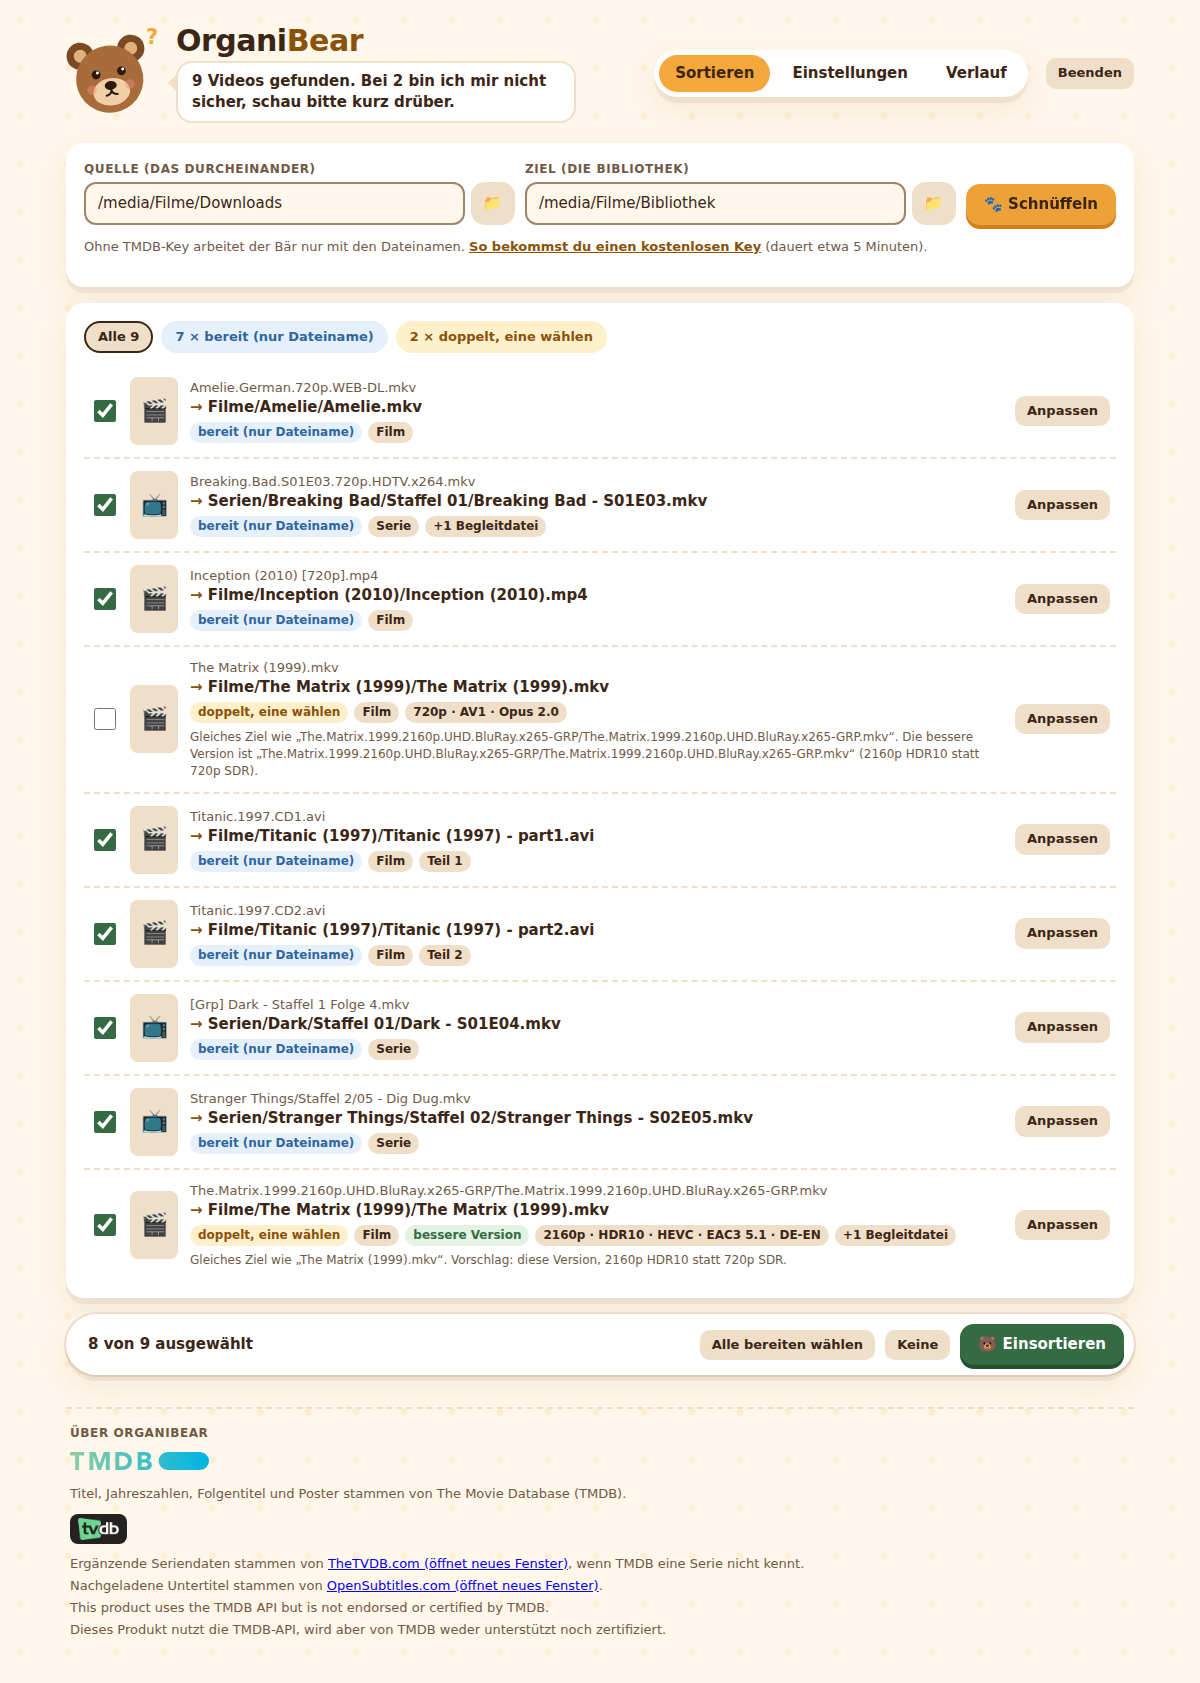
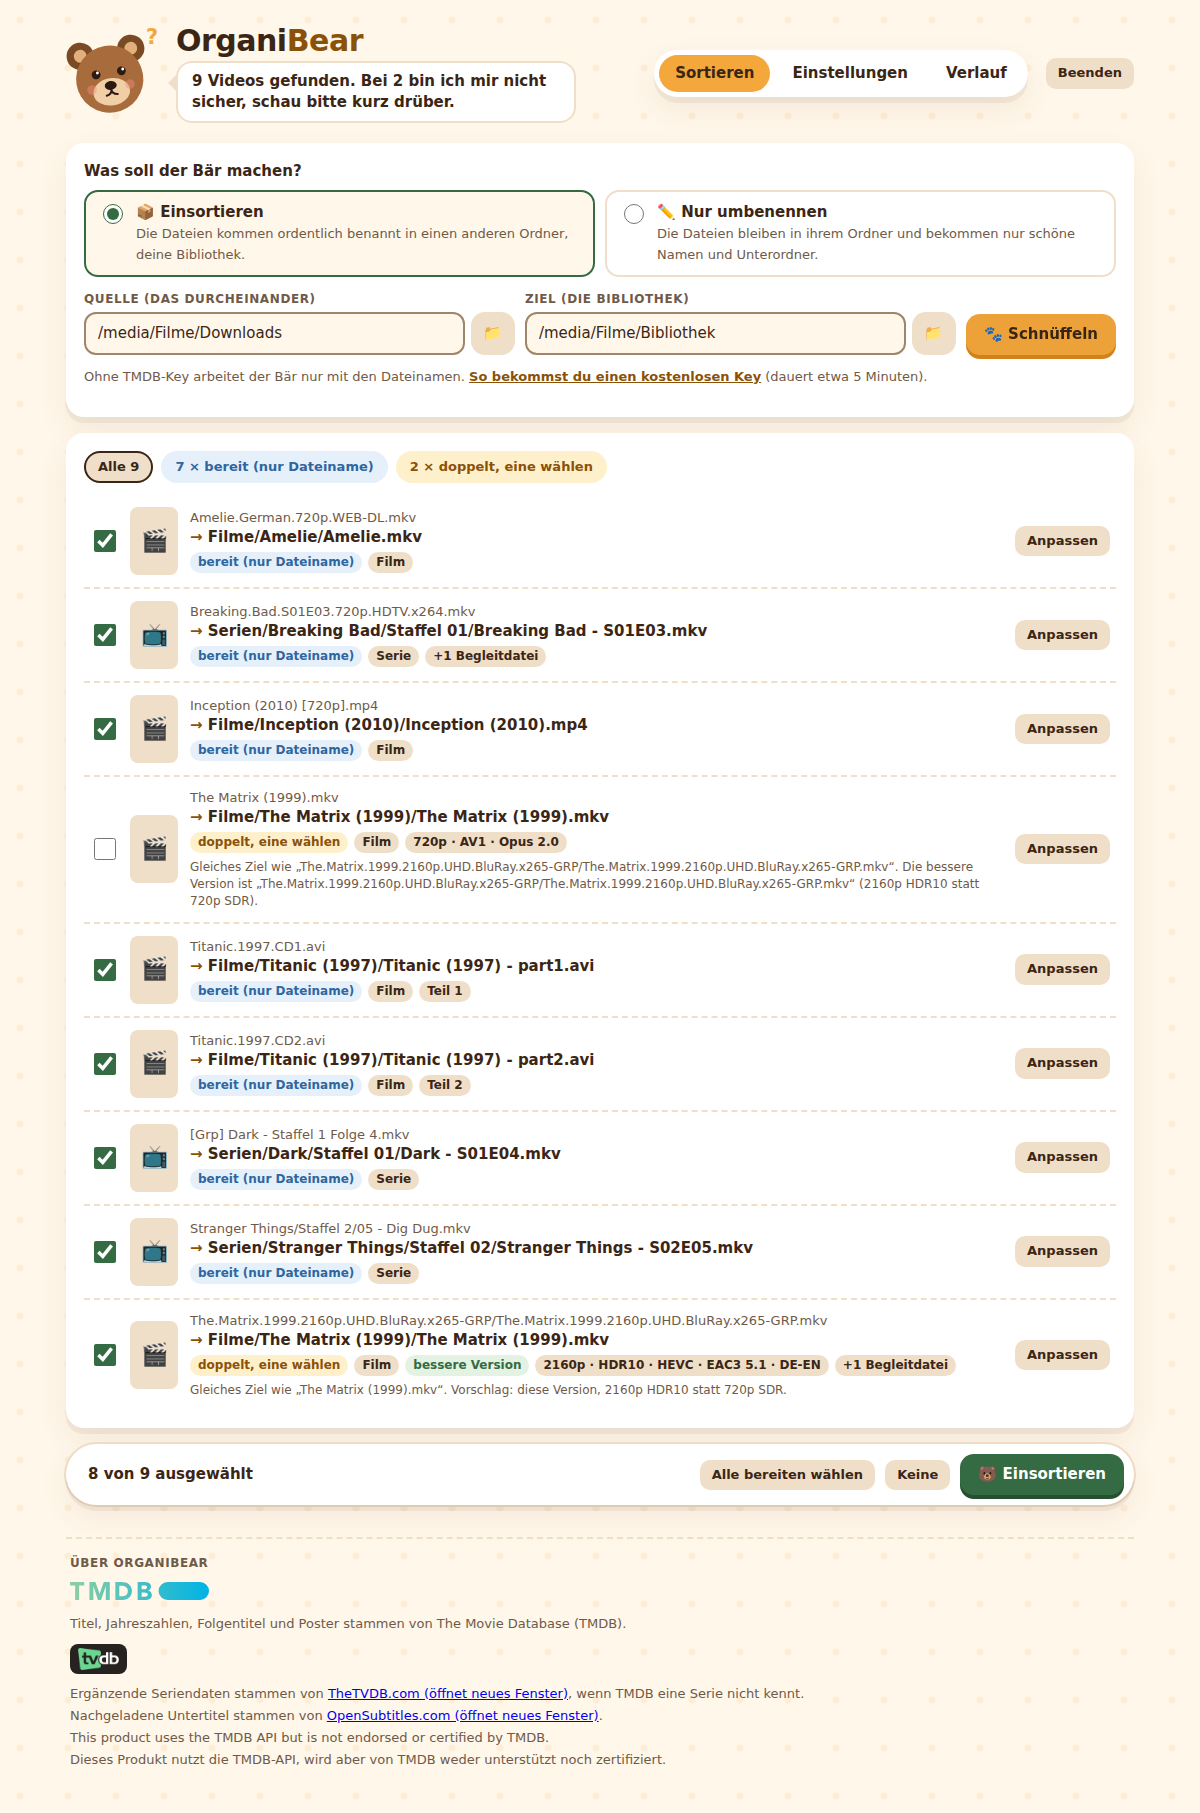
Nur umbenennen: Dateien bleiben im Quellordner
Neue Auswahl „Einsortieren“ oder „Nur umbenennen“. Beim Umbenennen ist die
Quelle zugleich das Ziel: Unterordner nach Vorlage entstehen im Quellordner,
Kopieren wird zu Umbenennen, leer gewordene Release-Ordner verschwinden.
Das gemerkte Ziel bleibt für später erhalten. Reine Änderungen der Groß- und
Kleinschreibung gelten nicht mehr als Konflikt.

Closes #25

Claude-Session: https://claude.ai/code/session_01821xLD15Pix4i9MNryRkKJ

Changed region(s): [[0.0308, 0.0, 0.9558, 0.9887], [0.555, 0.0309, 0.9558, 0.0618]]

diff --git a/web/index.html b/web/index.html
@@ -224,6 +224,13 @@ a.linkbtn {
 .guide-msg.bad { color: var(--berry); }
 .guide-msg.good { color: var(--go); }
 @media (max-width: 480px) { .fill { grid-template-columns: 1fr auto; } .fill dt { grid-column: 1 / -1; } }
+/* Einsortieren oder nur umbenennen */
+.mode { border: 0; padding: 0; margin: 0 0 14px; display: flex; gap: 10px; flex-wrap: wrap; }
+.mode legend { font-weight: 800; padding: 0; margin-bottom: 8px; }
+.mode-opt { flex: 1 1 260px; display: flex; gap: 10px; align-items: start; padding: 10px 12px; border: 2px solid var(--line); border-radius: 14px; cursor: pointer; }
+.mode-opt input { width: 20px; height: 20px; margin-top: 2px; accent-color: var(--go); flex: none; }
+.mode-opt:has(input:checked) { border-color: var(--go); background: var(--bg); }
+.mode-opt .hint { font-weight: 400; }
 [hidden] { display: none !important; }
 /* Drag & Drop im Programmfenster: das Feld unter dem Ordner leuchtet auf. */
 .pathpick.wails-drop-target-active input { border-color: var(--go); box-shadow: 0 0 0 3px var(--go); background: var(--card); }
@@ -304,17 +311,25 @@ a.linkbtn {
   <section id="tab-sort" aria-labelledby="h-sort">
     <h2 id="h-sort" class="sr-only" tabindex="-1">Sortieren</h2>
     <div class="card">
+      <fieldset class="mode">
+        <legend>Was soll der Bär machen?</legend>
+        <label class="mode-opt"><input type="radio" name="mode" value="sort" checked>
+          <span><strong><span aria-hidden="true">📦 </span>Einsortieren</strong><br><span class="hint">Die Dateien kommen ordentlich benannt in einen anderen Ordner, deine Bibliothek.</span></span></label>
+        <label class="mode-opt"><input type="radio" name="mode" value="inplace">
+          <span><strong><span aria-hidden="true">✏ </span>Nur umbenennen</strong><br><span class="hint">Die Dateien bleiben in ihrem Ordner und bekommen nur schöne Namen und Unterordner.</span></span></label>
+      </fieldset>
       <div class="row">
         <div class="field">
           <label for="src">Quelle (das Durcheinander)</label>
           <div class="pathpick"><input id="src" placeholder="z. B. D:\Downloads" autocomplete="off"><button type="button" class="btn icon-btn" data-pick="src" aria-label="Quellordner wählen" title="Quellordner wählen"><span aria-hidden="true">📁</span></button></div>
         </div>
-        <div class="field">
+        <div class="field" id="dst-field">
           <label for="dst">Ziel (die Bibliothek)</label>
           <div class="pathpick"><input id="dst" placeholder="z. B. E:\Medien" autocomplete="off"><button type="button" class="btn icon-btn" data-pick="dst" aria-label="Zielordner wählen" title="Zielordner wählen"><span aria-hidden="true">📁</span></button></div>
         </div>
         <button type="button" class="btn primary" id="scan"><span aria-hidden="true">🐾 </span><span class="lbl">Schnüffeln</span></button>
       </div>
+      <p class="hint" id="inplace-hint" hidden>Alles bleibt im Quellordner. Darin legt der Bär die Ordner aus deinen Namensvorlagen an, zum Beispiel <code>Filme/Matrix (1999)/</code>. Leere alte Ordner räumt er weg. Mit „Rückgängig“ im Verlauf ist alles wieder wie vorher.</p>
       <p class="hint" id="offline-hint" hidden>Ohne TMDB-Key arbeitet der Bär nur mit den Dateinamen. <button type="button" class="linklike" data-guide>So bekommst du einen kostenlosen Key</button> (dauert etwa 5 Minuten).</p>
     </div>
 
@@ -328,7 +343,7 @@ a.linkbtn {
       <span class="grow" id="selinfo" aria-live="polite"></span>
       <button type="button" class="btn small" id="selready">Alle bereiten wählen</button>
       <button type="button" class="btn small" id="selnone">Keine</button>
-      <button type="button" class="btn go" id="apply"><span aria-hidden="true">🐻 </span>Einsortieren</button>
+      <button type="button" class="btn go" id="apply"><span aria-hidden="true">🐻 </span><span class="lbl">Einsortieren</span></button>
     </div>
     <div class="card empty" id="empty">
       <div class="big" aria-hidden="true">🍯</div>
@@ -622,6 +637,7 @@ async function loadConfig() {
   const c = state.cfg;
   $("#src").value = c.source_dir || "";
   $("#dst").value = c.target_dir || "";
+  setMode(!!c.in_place);
   $("#key").value = c.tmdb_api_key || "";
   $("#lang").value = c.language || "de-DE";
   $("#tmovie").value = c.movie_template;
@@ -790,6 +806,21 @@ $("#save").onclick = async () => {
   }
 };
 
+// Einsortieren oder nur umbenennen
+const inPlace = () => $('input[name="mode"][value="inplace"]').checked;
+function setMode(on) {
+  $(`input[name="mode"][value="${on ? "inplace" : "sort"}"]`).checked = true;
+  $("#dst-field").hidden = on;
+  $("#inplace-hint").hidden = !on;
+  $(".lbl", $("#apply")).textContent = on ? "Umbenennen" : "Einsortieren";
+}
+$$('input[name="mode"]').forEach(r => r.addEventListener("change", () => {
+  setMode(inPlace());
+  bear("idle", inPlace() ? "Gut, ich lasse alles in seinem Ordner und gebe nur schöne Namen." : "Gut, ich räume alles in deine Bibliothek.", 3000);
+  // Die alte Vorschau passt nicht mehr, also gleich neu schnüffeln.
+  if (state.items.length && $("#src").value.trim()) $("#scan").click();
+}));
+
 // Sortieren
 $("#scan").onclick = async () => {
   if (state.busy) return;
@@ -799,7 +830,8 @@ $("#scan").onclick = async () => {
   $(".lbl", btn).textContent = "Schnüffelt …";
   bear("sniff", "Schnüffel, schnüffel … ich schaue mir alles an.");
   try {
-    const r = await api("POST", "/api/scan", { source_dir: $("#src").value.trim(), target_dir: $("#dst").value.trim() });
+    const r = await api("POST", "/api/scan", { source_dir: $("#src").value.trim(), target_dir: $("#dst").value.trim(), in_place: inPlace() });
+    state.cfg.in_place = inPlace();
     state.filter = null;
     setItems(r, true);
     const n = state.items.length;
@@ -1079,7 +1111,8 @@ $("#apply").onclick = async () => {
   const chosen = state.items.filter(i => state.sel.has(i.id));
   if (!chosen.length) return;
   const copies = chosen.filter(i => i.action === "copy").length;
-  const msg = `${chosen.length} Videos (plus Begleitdateien) werden ${copies === chosen.length ? "kopiert" : copies ? "verschoben bzw. kopiert" : "verschoben"}.\nÜber den Verlauf lässt sich das rückgängig machen.\n\nLos geht's?`;
+  const how = inPlace() ? "im Quellordner umbenannt" : copies === chosen.length ? "kopiert" : copies ? "verschoben bzw. kopiert" : "verschoben";
+  const msg = `${chosen.length} Videos (plus Begleitdateien) werden ${how}.\nÜber den Verlauf lässt sich das rückgängig machen.\n\nLos geht's?`;
   if (!confirm(msg)) return;
   bear("sniff", "Ich trage alles an seinen Platz …");
   state.applying = true;
@@ -1093,9 +1126,9 @@ $("#apply").onclick = async () => {
     const warns = r.warnings?.length ? ` ${r.warnings.length} Zusatzdatei(en) fehlen: ${r.warnings.slice(0, 3).join("; ")}.` : "";
     const servers = r.refreshed?.length ? " " + r.refreshed.join(". ") + "." : "";
     if (errs) bear("confused", `Fertig, aber ${errs} Datei(en) hatten Probleme. Details stehen beim jeweiligen Eintrag.${warns}${servers}`, 6000);
-    else if (warns) bear("confused", `Fertig! ${r.done} Videos sind einsortiert.${warns}${servers}`, 6000);
-    else if (state.items.length) bear("happy", `Fertig! ${r.done} Videos sind einsortiert und aus der Liste verschwunden. Übrig ist, was noch geprüft werden will.${servers}`, 3500);
-    else bear("happy", `Fertig! Alle ${r.done} Videos sind ordentlich einsortiert.${servers}`, 3000);
+    else if (warns) bear("confused", `Fertig! ${r.done} Videos sind ${inPlace() ? "umbenannt" : "einsortiert"}.${warns}${servers}`, 6000);
+    else if (state.items.length) bear("happy", `Fertig! ${r.done} Videos sind ${inPlace() ? "umbenannt" : "einsortiert"} und aus der Liste verschwunden. Übrig ist, was noch geprüft werden will.${servers}`, 3500);
+    else bear("happy", `Fertig! Alle ${r.done} Videos sind ordentlich ${inPlace() ? "umbenannt" : "einsortiert"}.${servers}`, 3000);
   } catch (e) {
     bear("confused", e.message, 4000);
   } finally {

diff --git a/organize.go b/organize.go
@@ -74,10 +74,10 @@ func Scan(ctx context.Context, cfg Config, db *TMDB) ([]*Item, error) {
 	if st, err := os.Stat(src); err != nil || !st.IsDir() {
 		return nil, fmt.Errorf("Quellordner %s nicht gefunden", src)
 	}
-	if cfg.TargetDir == "" {
+	if cfg.Target() == "" {
 		return nil, errors.New("bitte einen Zielordner angeben")
 	}
-	dst, _ := filepath.Abs(cfg.TargetDir)
+	dst, _ := filepath.Abs(cfg.Target())
 
 	videos := map[string][]scanned{}     // Ordner -> Videos
 	companions := map[string][]scanned{} // Ordner -> Begleitdateien
@@ -122,7 +122,7 @@ func Scan(ctx context.Context, cfg Config, db *TMDB) ([]*Item, error) {
 		sort.Slice(vs, func(i, j int) bool { return vs[i].path < vs[j].path })
 		for _, v := range vs {
 			rel, _ := filepath.Rel(src, v.path)
-			it := &Item{ID: len(items) + 1, Source: v.path, RelSource: rel, Action: v.rule.Action}
+			it := &Item{ID: len(items) + 1, Source: v.path, RelSource: rel, Action: inPlaceAction(cfg, v.rule.Action)}
 			it.Parsed = ParsePath(rel)
 			base := strings.ToLower(strings.TrimSuffix(filepath.Base(v.path), filepath.Ext(v.path)))
 			var cands []scanned
@@ -142,7 +142,7 @@ func Scan(ctx context.Context, cfg Config, db *TMDB) ([]*Item, error) {
 					continue
 				}
 				used[c.path] = true
-				it.Companions = append(it.Companions, FileOp{Source: c.path, Action: c.rule.Action})
+				it.Companions = append(it.Companions, FileOp{Source: c.path, Action: inPlaceAction(cfg, c.rule.Action)})
 			}
 			items = append(items, it)
 		}
@@ -357,6 +357,15 @@ func applyTVDB(ctx context.Context, db *TMDB, it *Item, c Candidate) {
 
 // companionSuffix liefert den Teil des Begleitdatei-Namens, der an den neuen
 // Videonamen angehängt wird, z. B. ".de.forced.srt".
+// inPlaceAction: Beim Umbenennen im selben Ordner wird nicht kopiert, sonst
+// lägen danach alle Dateien doppelt da.
+func inPlaceAction(cfg Config, a string) string {
+	if cfg.InPlace && a == ActionCopy {
+		return ActionMove
+	}
+	return a
+}
+
 func companionSuffix(video, companion string) string {
 	vb := strings.TrimSuffix(filepath.Base(video), filepath.Ext(video))
 	cn := filepath.Base(companion)
@@ -368,7 +377,7 @@ func companionSuffix(video, companion string) string {
 
 // PlanTargets berechnet Zielpfade und Status für alle offenen Einträge.
 func PlanTargets(cfg Config, items []*Item) {
-	dst, _ := filepath.Abs(cfg.TargetDir)
+	dst, _ := filepath.Abs(cfg.Target())
 	groups := map[string][]*Item{}
 	for _, it := range items {
 		if it.Status == StatusDone {
@@ -398,12 +407,12 @@ func PlanTargets(cfg Config, items []*Item) {
 			it.Status, it.Message = StatusError, "Ziel liegt außerhalb des Zielordners"
 		case it.Target == it.Source:
 			it.Status, it.Message = StatusSame, "Liegt schon richtig"
-		case exists(it.Target):
+		case exists(it.Target) && !caseOnly(it.Source, it.Target):
 			it.Status, it.Message = StatusConflict, "Ziel existiert bereits. Über „Anpassen“ kannst du einen anderen Namen vergeben."
 		}
 		if it.Status == "" {
 			for _, c := range it.Companions {
-				if c.Target != c.Source && exists(c.Target) {
+				if c.Target != c.Source && exists(c.Target) && !caseOnly(c.Source, c.Target) {
 					it.Status, it.Message = StatusConflict, "Begleitdatei existiert bereits: "+filepath.Base(c.Target)
 				}
 			}
@@ -483,7 +492,7 @@ type ExtrasFunc func(it *Item) (created, warns []string)
 // Apply führt die ausgewählten Einträge aus und schreibt ein Journal.
 // extras darf nil sein.
 func Apply(cfg Config, items []*Item, ids map[int]bool, journalDir string, extras ExtrasFunc) (*Journal, string, error) {
-	dst, _ := filepath.Abs(cfg.TargetDir)
+	dst, _ := filepath.Abs(cfg.Target())
 	src, _ := filepath.Abs(cfg.SourceDir)
 	j := &Journal{Created: time.Now(), SourceDir: src, TargetDir: dst}
 	taken := map[string]bool{} // von doppelten Einträgen nur den ersten gewählten ausführen
@@ -511,6 +520,10 @@ func Apply(cfg Config, items []*Item, ids map[int]bool, journalDir string, extra
 				break
 			}
 			j.Ops = append(j.Ops, op)
+			if cfg.InPlace && op.Action == ActionMove {
+				// Beim Umbenennen im selben Ordner keine leeren Release-Ordner zurücklassen.
+				pruneEmpty(src, filepath.Dir(op.Source))
+			}
 		}
 		if it.Status == StatusDone && extras != nil {
 			created, warns := extras(it)

diff --git a/organize_test.go b/organize_test.go
@@ -354,3 +354,70 @@ func TestAbsoluteEpisodeMath(t *testing.T) {
 		}
 	}
 }
+
+func TestInPlace(t *testing.T) {
+	tmp := t.TempDir()
+	src := filepath.Join(tmp, "filme")
+	touch(t, src,
+		"The.Matrix.1999.1080p.BluRay.x264-GRP/The.Matrix.1999.1080p.BluRay.x264-GRP.mkv",
+		"The.Matrix.1999.1080p.BluRay.x264-GRP/The.Matrix.1999.1080p.BluRay.x264-GRP.nfo",
+		"The.Matrix.1999.1080p.BluRay.x264-GRP/Subs/English.srt",
+		"Breaking.Bad.S01E03.720p-GRP/Breaking.Bad.S01E03.720p.mkv",
+		"Breaking.Bad.S01E03.720p-GRP/Breaking.Bad.S01E03.720p.de.srt",
+	)
+	cfg := DefaultConfig()
+	// Das gemerkte Ziel wird bei „Nur umbenennen“ nicht benutzt.
+	cfg.SourceDir, cfg.TargetDir, cfg.TMDBKey, cfg.InPlace = src, filepath.Join(tmp, "anderswo"), "testkey", true
+	for i := range cfg.FileRules {
+		if cfg.FileRules[i].Name == "Untertitel" {
+			cfg.FileRules[i].Action = ActionCopy
+		}
+	}
+	db := fakeTMDB(t)
+	items, err := Scan(context.Background(), cfg, db)
+	if err != nil {
+		t.Fatal(err)
+	}
+	ids := map[int]bool{}
+	for _, it := range items {
+		if it.Status != StatusReady {
+			t.Fatalf("%s: %s %s", it.RelSource, it.Status, it.Message)
+		}
+		if it.Action != ActionMove || it.Companions[0].Action != ActionMove {
+			t.Errorf("%s: beim Umbenennen wird nichts kopiert: %s / %s", it.RelSource, it.Action, it.Companions[0].Action)
+		}
+		ids[it.ID] = true
+	}
+	_, jpath, err := Apply(cfg, items, ids, filepath.Join(tmp, "verlauf"), nil)
+	if err != nil {
+		t.Fatal(err)
+	}
+	mustExist(t, filepath.Join(src, "Filme/Matrix (1999)/Matrix (1999).mkv"), true)
+	mustExist(t, filepath.Join(src, "Filme/Matrix (1999)/Matrix (1999).English.srt"), true)
+	mustExist(t, filepath.Join(src, "Serien/Breaking Bad (2008)/Staffel 01/Breaking Bad - S01E03 - ...und der Leichensack.de.srt"), true)
+	mustExist(t, filepath.Join(tmp, "anderswo"), false)
+	// Leere Release-Ordner verschwinden, Ordner mit Übrigem (NFO) bleiben.
+	mustExist(t, filepath.Join(src, "Breaking.Bad.S01E03.720p-GRP"), false)
+	mustExist(t, filepath.Join(src, "The.Matrix.1999.1080p.BluRay.x264-GRP/Subs"), false)
+	mustExist(t, filepath.Join(src, "The.Matrix.1999.1080p.BluRay.x264-GRP/The.Matrix.1999.1080p.BluRay.x264-GRP.nfo"), true)
+
+	// Nochmal schnüffeln: alles liegt schon richtig.
+	again, err := Scan(context.Background(), cfg, db)
+	if err != nil {
+		t.Fatal(err)
+	}
+	for _, it := range again {
+		if it.Status != StatusSame {
+			t.Errorf("zweiter Lauf %s: %s %s", it.RelSource, it.Status, it.Message)
+		}
+	}
+
+	problems, err := Undo(jpath)
+	if err != nil || len(problems) > 0 {
+		t.Fatalf("Undo: %v %v", err, problems)
+	}
+	mustExist(t, filepath.Join(src, "Breaking.Bad.S01E03.720p-GRP/Breaking.Bad.S01E03.720p.de.srt"), true)
+	mustExist(t, filepath.Join(src, "The.Matrix.1999.1080p.BluRay.x264-GRP/Subs/English.srt"), true)
+	mustExist(t, filepath.Join(src, "Filme"), false)
+	mustExist(t, filepath.Join(src, "Serien"), false)
+}

diff --git a/server.go b/server.go
@@ -282,6 +282,7 @@ func (s *Server) scan(w http.ResponseWriter, r *http.Request) {
 	var req struct {
 		SourceDir string `json:"source_dir"`
 		TargetDir string `json:"target_dir"`
+		InPlace   *bool  `json:"in_place"`
 	}
 	if err := readJSON(r, &req); err != nil {
 		writeErr(w, http.StatusBadRequest, err)
@@ -296,6 +297,9 @@ func (s *Server) scan(w http.ResponseWriter, r *http.Request) {
 	if req.TargetDir != "" {
 		cfg.TargetDir = req.TargetDir
 	}
+	if req.InPlace != nil {
+		cfg.InPlace = *req.InPlace
+	}
 	ctx, cancel := context.WithTimeout(r.Context(), 5*time.Minute)
 	defer cancel()
 	items, err := Scan(ctx, cfg, s.db)
@@ -304,7 +308,7 @@ func (s *Server) scan(w http.ResponseWriter, r *http.Request) {
 		return
 	}
 	// Ordner merken
-	if cfg.SourceDir != s.cfg.SourceDir || cfg.TargetDir != s.cfg.TargetDir {
+	if cfg.SourceDir != s.cfg.SourceDir || cfg.TargetDir != s.cfg.TargetDir || cfg.InPlace != s.cfg.InPlace {
 		s.cfg = cfg
 		if err := SaveConfig(s.cfgPath, cfg); err != nil {
 			log.Printf("Ordner konnten nicht gespeichert werden: %v", err)

diff --git a/fileops.go b/fileops.go
@@ -30,6 +30,9 @@ func moveFile(src, dst string) error {
 		return err
 	}
 	if exists(dst) {
+		if caseOnly(src, dst) {
+			return os.Rename(src, dst)
+		}
 		return errExists
 	}
 	// #nosec G301 -- Bibliotheksordner müssen für Mediaserver lesbar sein
@@ -62,6 +65,17 @@ func moveFile(src, dst string) error {
 		return err
 	}
 	return nil
+}
+
+// caseOnly meldet, ob dst nur in der Groß-/Kleinschreibung von src abweicht und
+// auf derselben Datei landet (Windows, macOS). Dann ist Umbenennen erlaubt.
+func caseOnly(src, dst string) bool {
+	if src == dst || !strings.EqualFold(src, dst) {
+		return false
+	}
+	a, err1 := os.Stat(src)
+	b, err2 := os.Stat(dst)
+	return err1 == nil && err2 == nil && os.SameFile(a, b)
 }
 
 // isCrossDevice meldet, ob ein Fehler "anderes Laufwerk" bedeutet.

diff --git a/config.go b/config.go
@@ -50,6 +50,17 @@ type Config struct {
 	// GuideSkipped: Die Anleitung zum TMDB-Key wurde mit „Später“ weggeklickt
 	// und öffnet sich beim Start nicht mehr von selbst.
 	GuideSkipped bool `json:"tmdb_guide_skipped,omitempty"`
+	// InPlace: „Nur umbenennen“. Die Bibliothek entsteht im Quellordner selbst,
+	// TargetDir bleibt für später gemerkt.
+	InPlace bool `json:"in_place,omitempty"`
+}
+
+// Target ist der Ordner, in den einsortiert wird.
+func (c Config) Target() string {
+	if c.InPlace {
+		return c.SourceDir
+	}
+	return c.TargetDir
 }
 
 // TheTVDB ist die zweite Quelle für Serien, wenn TMDB nichts findet. Den

diff --git a/opensubtitles.go b/opensubtitles.go
@@ -407,7 +407,7 @@ func FetchSubtitles(ctx context.Context, cfg Config, subs *OpenSubs, it *Item) (
 	if err != nil {
 		return nil, []string{"Untertitel " + name + ": " + err.Error()}
 	}
-	dst, _ := filepath.Abs(cfg.TargetDir)
+	dst, _ := filepath.Abs(cfg.Target())
 	w := &extraWriter{ctx: ctx, dst: dst}
 	base := strings.TrimSuffix(it.Target, filepath.Ext(it.Target))
 	for _, l := range missing {

diff --git a/extras.go b/extras.go
@@ -204,7 +204,7 @@ func WriteExtras(ctx context.Context, cfg Config, db *TMDB, it *Item) (created, 
 	if (!x.NFO && !x.Artwork) || it.Info.TMDBID == 0 || !db.Enabled() {
 		return nil, nil
 	}
-	dst, _ := filepath.Abs(cfg.TargetDir)
+	dst, _ := filepath.Abs(cfg.Target())
 	w := &extraWriter{ctx: ctx, db: db, dst: dst}
 	meta, err := db.Meta(ctx, it.Info.Series, it.Info.TMDBID)
 	if err != nil {

diff --git a/README.md b/README.md
@@ -44,7 +44,11 @@ in eine ordentliche Bibliothek.
 3. Beim ersten Start führt der Bär Schritt für Schritt zum kostenlosen TMDB-Key: Konto anlegen, Key beantragen
    (mit Vorlage zum Kopieren für das Formular), einfügen, fertig. Der Key wird vor dem Speichern bei TMDB geprüft.
    Später findest du die Anleitung unter **Einstellungen**, dort auch Vorlagen und Dateiregeln.
-4. Unter **Sortieren** Quelle und Ziel wählen, **Schnüffeln** drücken, Vorschau prüfen, **Einsortieren**.
+4. Unter **Sortieren** wählen, was passieren soll:
+   - **Einsortieren:** Quelle und Ziel wählen, die Dateien kommen in die Bibliothek im Zielordner.
+   - **Nur umbenennen:** nur die Quelle wählen. Die Dateien bleiben dort und bekommen Namen und Unterordner
+     nach deinen Vorlagen; leere alte Ordner werden weggeräumt, Kopieren wird dabei zu Umbenennen.
+5. **Schnüffeln** drücken, Vorschau prüfen, **Einsortieren** bzw. **Umbenennen**. Alles lässt sich im **Verlauf** rückgängig machen.
 
 ### Optionen
 
